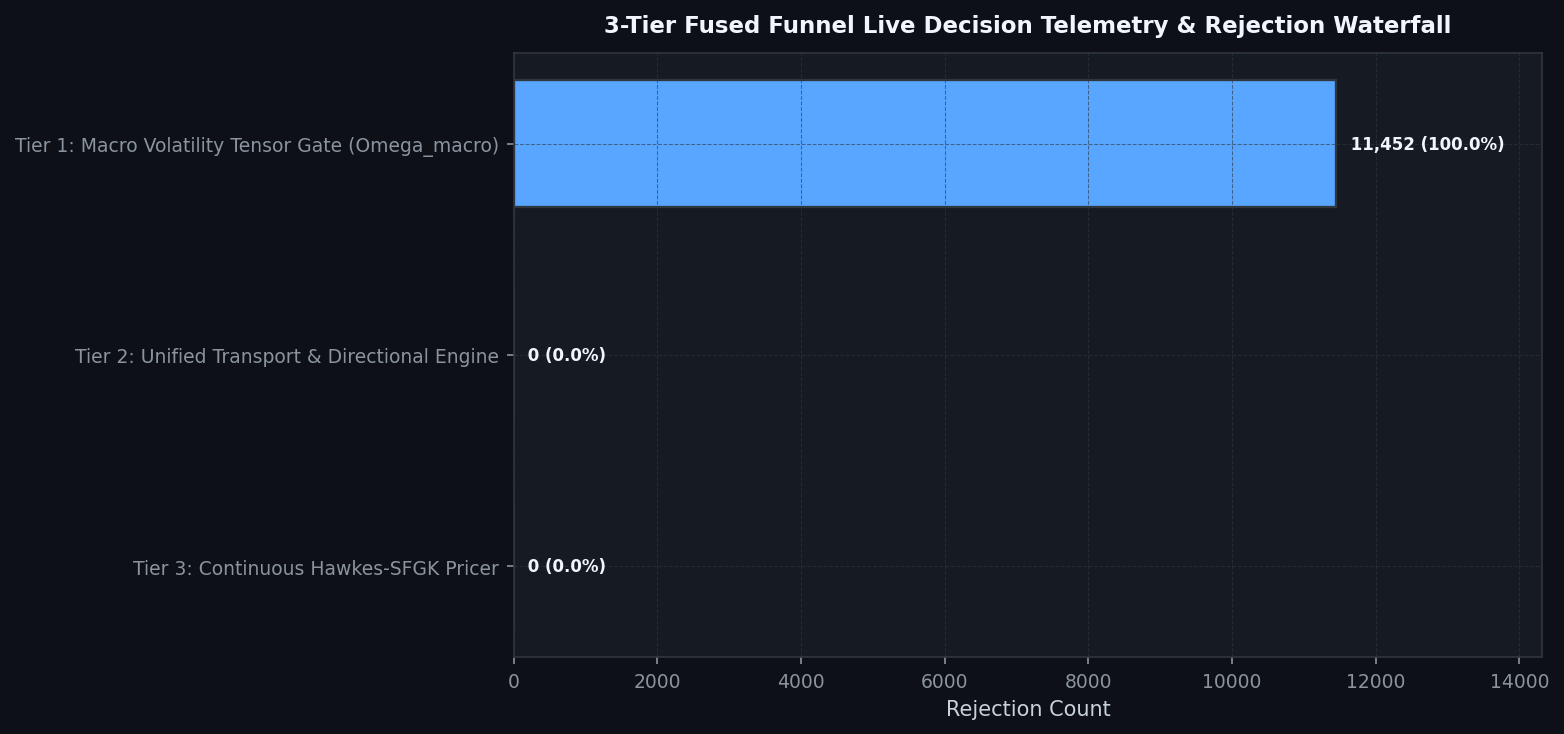
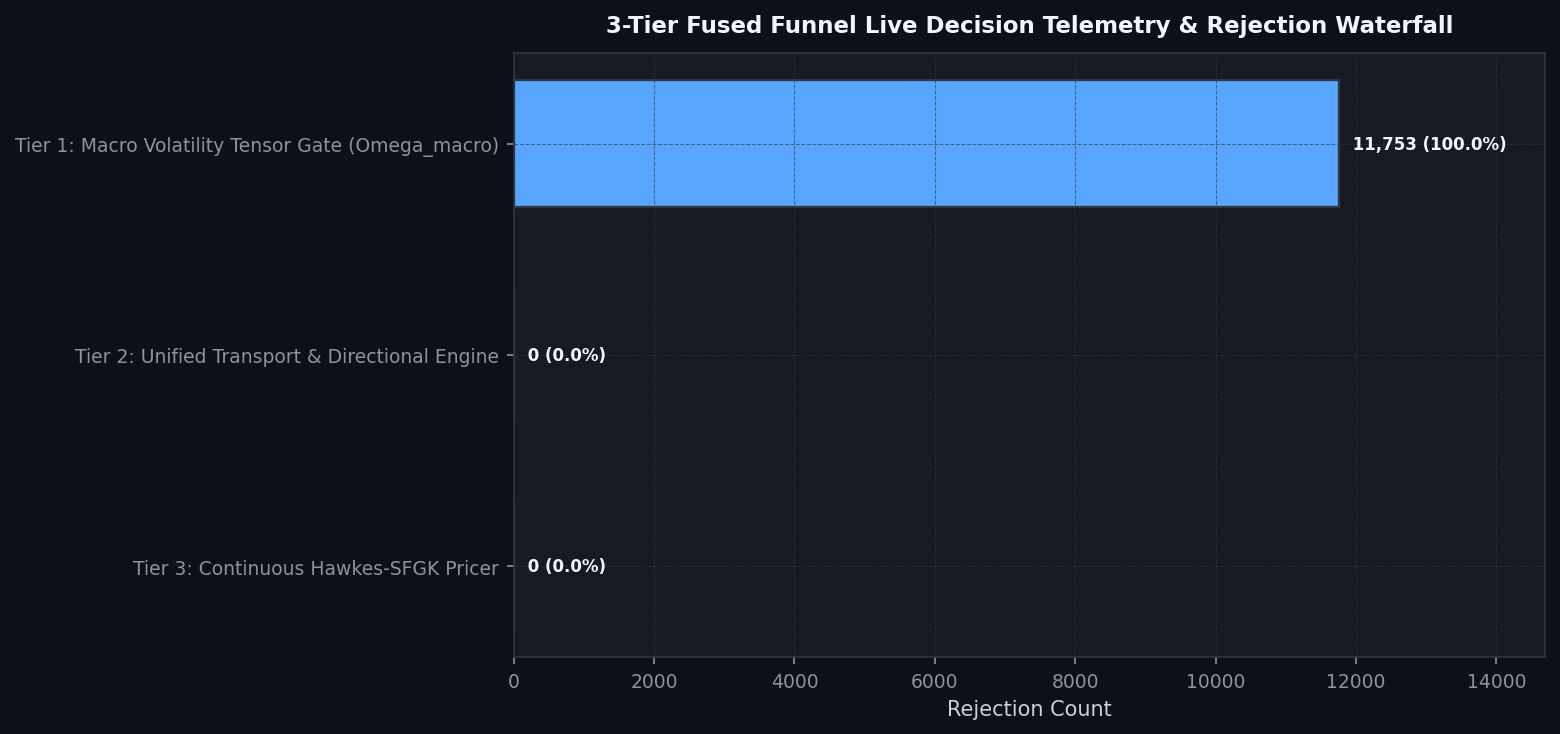
[coinbase] Hourly Status & Visual Intelligence Update: 2026-08-23 06:15:18

diff --git a/coinbase/data/hourly_status_report.md b/coinbase/data/hourly_status_report.md
@@ -3,7 +3,7 @@ layout: default
 ---
 
 # 🛡 Unified Trading System Hourly Status & Visual Intelligence
-> **Report Generated**: `2026-08-23 06:00:05 AM PDT (2026-08-23 13:00:05 UTC)`  
+> **Report Generated**: `2026-08-23 06:15:01 AM PDT (2026-08-23 13:15:01 UTC)`  
 > **System Health**: **🟡 DEGRADED / RESTRICTED** | **Win Rate**: `0.0%` | **Completed Trades**: `0`
 
 
@@ -15,13 +15,13 @@ Real-time Deribit implied volatility (DVOL) proxy tracking against mathematicall
 
 | Symbol | Proxy Oracle | Live Z-Score | Optimal Limit (YSP) | Safety Margin | Live VRP | Optimal VRP (YSP) | DAW Safety Verdict |
 | :--- | :--- | :--- | :--- | :--- | :--- | :--- | :--- |
-| `AVAX-USD` | DVOL_BTC | **-1.49** | **-0.50** | **-0.99** | **+12.35** | 5.0 | 🔴 DAW VETOED |
-| `ETH-USD` | DVOL_ETH | **+2.65** | **-0.50** | **+3.15** | **+28.20** | 5.0 | 🔴 DAW VETOED |
-| `ADA-USD` | DVOL_BTC | **-1.49** | **-0.50** | **-0.99** | **+12.35** | 5.0 | 🔴 DAW VETOED |
-| `DOGE-USD` | DVOL_BTC | **-1.49** | **-0.50** | **-0.99** | **+12.35** | 5.0 | 🔴 DAW VETOED |
-| `BTC-USD` | DVOL_BTC | **-1.49** | **-0.50** | **-0.99** | **+12.35** | 5.0 | 🔴 DAW VETOED |
-| `LINK-USD` | DVOL_BTC | **-1.49** | **-0.50** | **-0.99** | **+12.35** | 5.0 | 🔴 DAW VETOED |
-| `SOL-USD` | DVOL_BTC | **-1.49** | **-0.50** | **-0.99** | **+12.35** | 5.0 | 🔴 DAW VETOED |
+| `AVAX-USD` | DVOL_BTC | **-1.45** | **-0.50** | **-0.95** | **+12.29** | 5.0 | 🔴 DAW VETOED |
+| `ETH-USD` | DVOL_ETH | **+2.63** | **-0.50** | **+3.13** | **+28.16** | 5.0 | 🔴 DAW VETOED |
+| `ADA-USD` | DVOL_BTC | **-1.45** | **-0.50** | **-0.95** | **+12.29** | 5.0 | 🔴 DAW VETOED |
+| `DOGE-USD` | DVOL_BTC | **-1.45** | **-0.50** | **-0.95** | **+12.29** | 5.0 | 🔴 DAW VETOED |
+| `BTC-USD` | DVOL_BTC | **-1.45** | **-0.50** | **-0.95** | **+12.29** | 5.0 | 🔴 DAW VETOED |
+| `LINK-USD` | DVOL_BTC | **-1.45** | **-0.50** | **-0.95** | **+12.29** | 5.0 | 🔴 DAW VETOED |
+| `SOL-USD` | DVOL_BTC | **-1.45** | **-0.50** | **-0.95** | **+12.29** | 5.0 | 🔴 DAW VETOED |
 
 
 
@@ -37,12 +37,12 @@ We hereby certify that the mission-critical algorithmic data assets uploaded by 
 
 | Status | Data Asset | Freshness / State | Details / Timestamp |
 | :---: | :--- | :--- | :--- |
-| ✅ | **Go-List JSON** | Fresh (10.58h old) | 08-22 19:25 |
-| ✅ | **TimesFM Forecasts** | Fresh (5.97h old) | 08-23 00:02 |
-| ✅ | **Holding Times config** | Fresh (44.96h old) | 08-21 09:02 |
-| ✅ | **BTC DVOL Cache** | Fresh (0.00h old) | 08-23 06:00 |
-| ✅ | **ETH DVOL Cache** | Fresh (0.00h old) | 08-23 06:00 |
-| ✅ | **Live Trading Telemetry** | Fresh (0.00h old) | 08-23 06:00 |
+| ✅ | **Go-List JSON** | Fresh (10.82h old) | 08-22 19:25 |
+| ✅ | **TimesFM Forecasts** | Fresh (6.22h old) | 08-23 00:02 |
+| ✅ | **Holding Times config** | Fresh (45.20h old) | 08-21 09:02 |
+| ✅ | **BTC DVOL Cache** | Fresh (0.00h old) | 08-23 06:14 |
+| ✅ | **ETH DVOL Cache** | Fresh (0.00h old) | 08-23 06:14 |
+| ✅ | **Live Trading Telemetry** | Fresh (0.00h old) | 08-23 06:15 |
 
 <br>
 
@@ -55,7 +55,7 @@ Layer-by-layer tick evaluation waterfall and asset-specific performance tracking
 
 | Funnel Filter Layer | Total Rejections | % of Rejections |
 | :--- | :--- | :--- |
-| Tier 1: Macro Volatility Tensor Gate (Omega_macro) | `11,452` | **100.0%** |
+| Tier 1: Macro Volatility Tensor Gate (Omega_macro) | `11,753` | **100.0%** |
 | Tier 2: Unified Transport & Directional Engine | `0` | **0.0%** |
 | Tier 3: Continuous Hawkes-SFGK Pricer (HAS-Pricer) | `0` | **0.0%** |
 | System: Asset Cooldown Active | `0` | **0.0%** |
@@ -92,14 +92,14 @@ Live balance sheet and open maker liquidity positions from Coinbase CDP.
 ## 4. 🤖 Foundation Model MLOps & Pipeline Orchestration
 Weekly Algorithmic Mega Cap selection, Zero-shot multi-step forward return forecasts, and VSTEF parameter grid search status.
 
-- **TimesFM Forecast DB**: 🟢 Updated 6.0h ago (2026-08-23 12:02 AM PDT)
+- **TimesFM Forecast DB**: 🟢 Updated 6.2h ago (2026-08-23 12:02 AM PDT)
 - **Last Weekly VSTEF Optimization**: `2026-08-05 09:22:38 AM PDT`
-- **Next Scheduled VSTEF Run**: `2026-08-23 07:00:00 PM PDT (Monday 02:00 UTC)` (Countdown: **13.0h (0d 12h 59m)**)
+- **Next Scheduled VSTEF Run**: `2026-08-23 07:00:00 PM PDT (Monday 02:00 UTC)` (Countdown: **12.7h (0d 12h 44m)**)
 - **Promoted Parameter Gates**: $Z_{DVOL} \le -0.5$ | Holding Horizon $= 12\text{h}$
 
 ### Algorithmic Mega Cap Selection
 - **Last Run (Confirmation)**: `2026-08-22 07:25:41 PM PDT`
-- **Next Scheduled Run**: `2026-08-23 06:00:00 PM PDT (Monday 01:00 UTC)` (Countdown: **12.0h (0d 11h 59m)**)
+- **Next Scheduled Run**: `2026-08-23 06:00:00 PM PDT (Monday 01:00 UTC)` (Countdown: **11.7h (0d 11h 44m)**)
 - **Selected Mega Cap Universe**: `BTC, BCH, AVAX, ETH, ALGO, ADA, LTC, DOGE, AAVE, LINK, DOT, HBAR`
 
 
@@ -113,19 +113,19 @@ Visualizing the impact of the VSTEF (Volatility-Synchronized Stop-Tightening Exe
 ## 5. 🖥 Multi-Node Infrastructure & Watchdog Matrix
 ```text
 ================================================================================
-   🛡  SFGK FUNNEL GUARDIAN WATCHDOG (HFT ONLY) |  01:00:00 PM
-   CPU:   1.5%  |  MEM:   5.8% (14.5GB / 15.4GB Free)
+   🛡  SFGK FUNNEL GUARDIAN WATCHDOG (HFT ONLY) |  01:14:59 PM
+   CPU:  20.7%  |  MEM:   6.6% (14.4GB / 15.4GB Free)
 ================================================================================
 SERVICE              | PID      | STATUS          | RESTARTS | INFO
 --------------------------------------------------------------------------------
 L3 Consumer          | 919336   | RUNNING         | -        | Continuous Websocket Feed
-Trader AVAX-USD      | 984500   | COOL-DOWN       | 206      | Next run in 4.6s
-Trader ETH-USD       | 984501   | COOL-DOWN       | 206      | Next run in 4.6s
-Trader ADA-USD       | 984502   | COOL-DOWN       | 206      | Next run in 4.6s
-Trader DOGE-USD      | 984503   | COOL-DOWN       | 206      | Next run in 4.6s
-Trader BTC-USD       | 984504   | COOL-DOWN       | 206      | Next run in 4.6s
-Trader LINK-USD      | 984505   | COOL-DOWN       | 206      | Next run in 4.6s
-Trader SOL-USD       | 984506   | COOL-DOWN       | 206      | Next run in 4.6s
+Trader AVAX-USD      | 998145   | RUNNING         | 249      | Evaluating Funnel/Polling Order
+Trader ETH-USD       | 998146   | RUNNING         | 249      | Evaluating Funnel/Polling Order
+Trader ADA-USD       | 998147   | RUNNING         | 249      | Evaluating Funnel/Polling Order
+Trader DOGE-USD      | 998148   | RUNNING         | 249      | Evaluating Funnel/Polling Order
+Trader BTC-USD       | 998149   | RUNNING         | 249      | Evaluating Funnel/Polling Order
+Trader LINK-USD      | 998150   | RUNNING         | 249      | Evaluating Funnel/Polling Order
+Trader SOL-USD       | 998151   | RUNNING         | 249      | Evaluating Funnel/Polling Order
 ================================================================================
 ```
 

diff --git a/coinbase/data/visual_intelligence.md b/coinbase/data/visual_intelligence.md
@@ -4,7 +4,7 @@ title: Visual Intelligence Gallery
 ---
 
 # 📈 Visual Intelligence Gallery
-> **Generated:** `2026-08-23 06:00:22`
+> **Generated:** `2026-08-23 06:15:18`
 > **[Return to Main Status Report](./hourly_status_report.html)**
 
 This page visualizes the internal states, market profiles, and decision criteria of the active **3-Tier Fused Decision Engine** across all layers.
